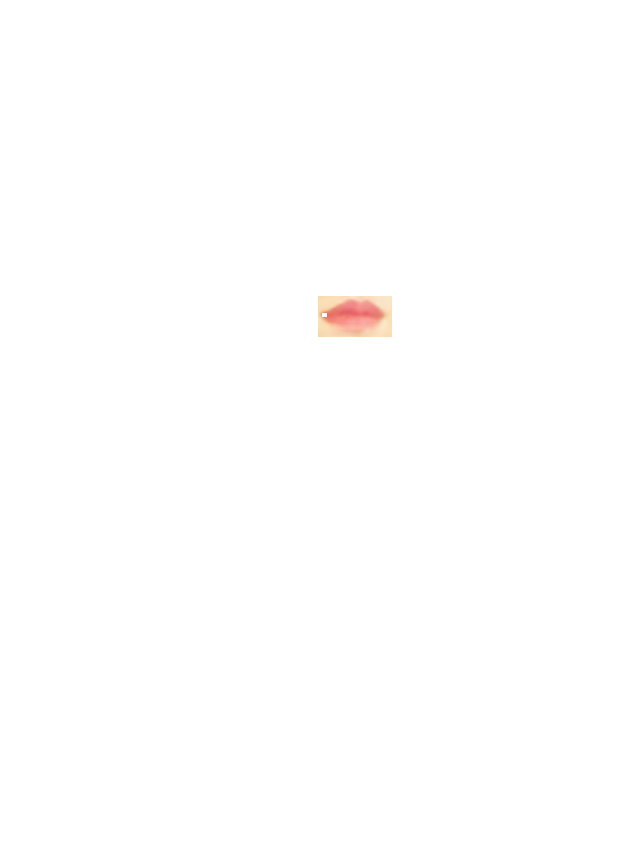
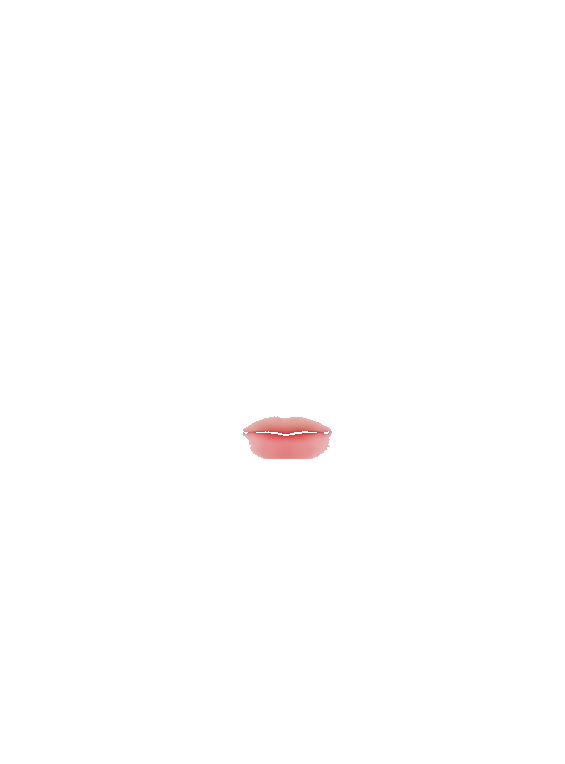
코드수정 0729

Changed region(s): [[0.4212, 0.5419, 0.6018, 0.6021], [0.4814, 0.3312, 0.6319, 0.3914]]

diff --git a/main.py b/main.py
@@ -6,9 +6,9 @@ import cv2
 import inference_with_ckpt as illustrator
 # Picture FileName
 # Illust Flag => True이면 Cartoon GAN 적용 후 Face Layer 추출, False이면 미적용, 추출
-convert_to_illust = True
+convert_to_illust = False
 
-FileName = "test.png"
+FileName = "TestPic.png"
 ImgName = './input/'+FileName
 detector = dlib.get_frontal_face_detector()
 predictor = dlib.shape_predictor('shape_predictor_68_face_landmarks.dat')
